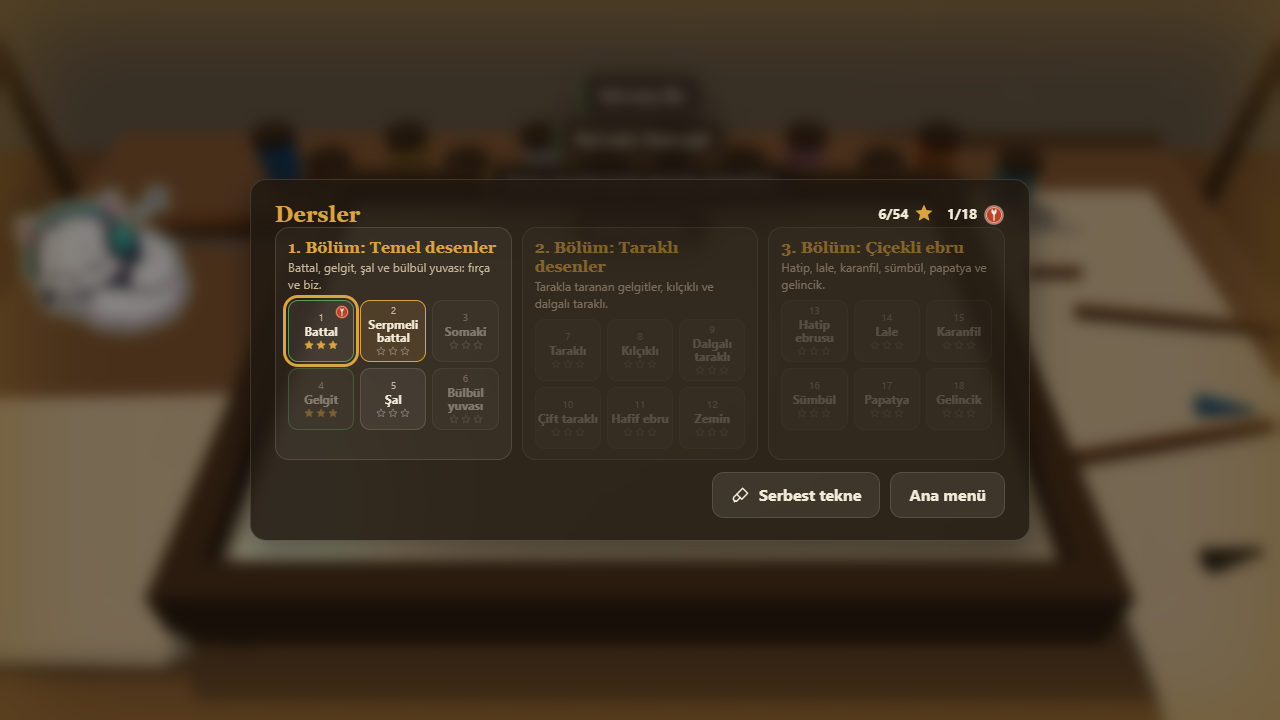
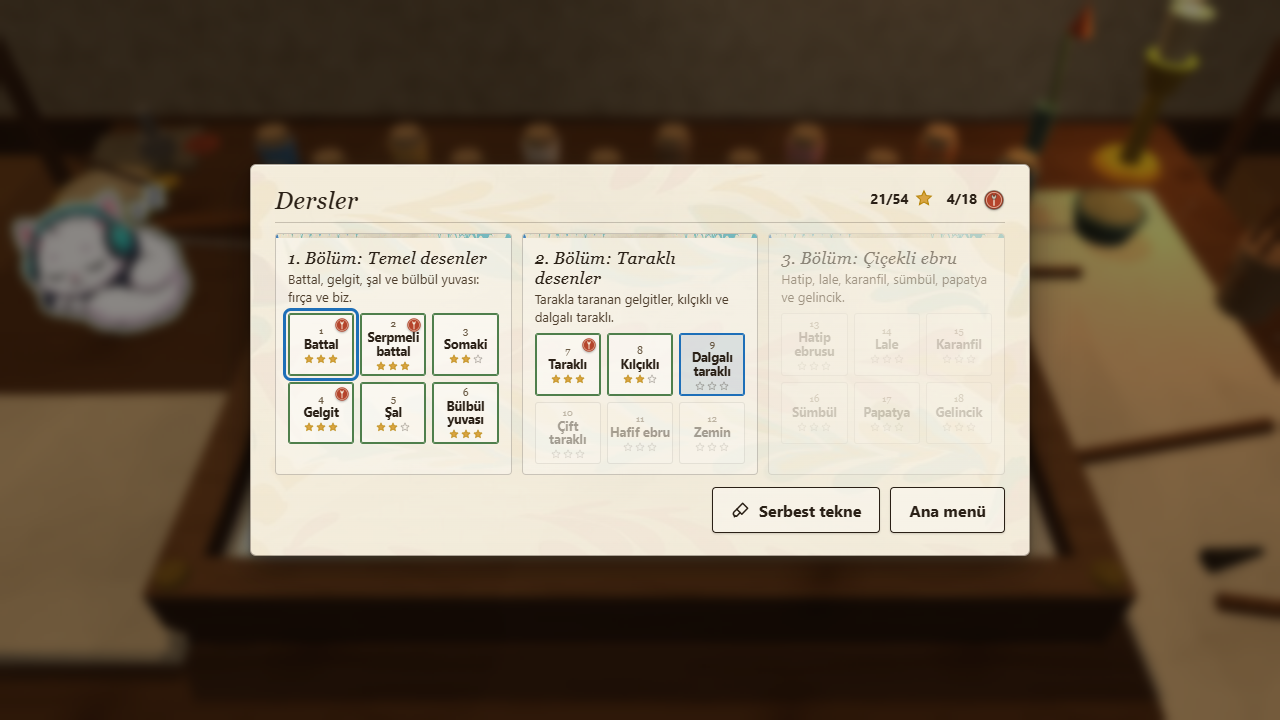
docs(redesign): new screenshots, before/after composite and the README redesign section
Claude-Session: https://claude.ai/code/session_014vMYwwQ3htV8WjCni8q7av

diff --git a/README.md b/README.md
@@ -41,7 +41,7 @@
 - **Provably solvable targets.** Every target is a recorded stroke list replayed in the same simulation; the live match %
   compares the tray with the target, and the hint replays the next stroke as a ghost on the water.
 - **Played by a bot.** `?auto` plays every lesson through the same stroke API as a player, with a small hand tremor.
-  Measured: **18/18 lessons solved, 48/54 stars, 12/18 seals**, 60 fps on an Intel UHD 620, 7-10 draw calls.
+  Measured after the 2026-11 redesign: **18/18 lessons solved, 48/54 stars, 12/18 seals**, 60 fps on an Intel UHD 620, 14-18 draw calls.
 - **Free tray, water thickness, gallery and book covers.** Paint whatever you like on thin, medium or thick water (drops
   spread wider and the awl drags a broader wake on thin water), lay the paper and keep up to 12 sheets in the gallery;
   bind any sheet into a book cover (leather spine and corners, the sheet as the board paper). Your last sheets hang to
@@ -126,11 +126,11 @@ points, fps, calls, bot log, errors, assets).
 <table>
   <tr>
     <td width="33%"><img src="docs/01-title.png" alt="Title screen"><br><sub>Title screen</sub></td>
-    <td width="33%"><img src="docs/02-gameplay.png" alt="Lesson 5 with only blue on the water and the master's critique under the tray"><br><sub>The master's critique under the tray</sub></td>
-    <td width="33%"><img src="docs/03-lesson.png" alt="A lesson starts with the master's note on a card over the tray"><br><sub>A lesson and the master's note</sub></td>
+    <td width="33%"><img src="docs/02-gameplay.png" alt="Lesson 5: red ochre drops rippling on the wet size, the brush dipping, the walnut tool tray"><br><sub>Drops rippling on the wet size</sub></td>
+    <td width="33%"><img src="docs/03-lesson.png" alt="Lesson 14 starts with the master's note on a paper card over the tray"><br><sub>A lesson and the master's note</sub></td>
   </tr>
   <tr>
-    <td><img src="docs/04-result.png" alt="Result: the finished sheet next to the target, with the critique and the kitten"><br><sub>The finished sheet next to the target</sub></td>
+    <td><img src="docs/04-result.png" alt="Result card on ebru paper: the tulip sheet next to the target, three stars, the master's seal and the kitten"><br><sub>The finished sheet, three stars and the seal</sub></td>
     <td><img src="docs/05-lessons.png" alt="Chapter map with stars and seals"><br><sub>Three chapters, 18 lessons, seals</sub></td>
     <td><img src="docs/06-phone.png" alt="Ebru on a phone"><br><sub>On a phone</sub></td>
   </tr>
@@ -186,6 +186,38 @@ Upgraded by **Claude Fable 5.1** with Claude Code from [prompts/ebru-v2.md](prom
 - The arena's Turkish Van kitten: asleep on the table edge (a sprite, one extra draw call) and cheering or thinking on
   the result card. Measured after the upgrade: bot 18/18, 48/54 stars, 12/18 seals, 58-60 fps and 7-10 draw calls on
   the UHD 620, zero JS errors with and without assets.
+
+### Redesign (2026-11)
+
+Redesigned by **Claude Fable 5.1** with Claude Code (branch `redesign`). Art direction: **ink & paper fine art**, the
+master's workshop in the morning window light. Palette: walnut, cream paper, lime plaster, ebru blue, red-ochre wax,
+brass, zinc. Nothing in the rules moved: lessons, targets, scoring, seals, saves, flags and the bot are the v2 ones.
+
+What changed:
+
+- **Room.** Canvas-generated wood grain, lime plaster and laid-paper textures on three merged static meshes with
+  world-projected UVs; a woven kilim; the window now shows a morning sky, a cypress and a far dome, and throws a soft
+  shaft of light across the table. Golden window sun, a cool room fill, a flickering oil lamp (point light and flame
+  sprite) and a little fog towards the far wall. A PMREM environment from a canvas equirect so the water and the steel
+  catch the window.
+- **Wet size.** The water is a low-roughness surface with a slowly creeping ripple normal map under the paint, so the
+  window's reflection shimmers on the kitre and the pigment reads wet rather than printed.
+- **The master's table.** Oil lamp, bowl of size with a ladle, ox-gall bowl, muller and a pile of ground ochre, a cup
+  of rose-twig brushes, a reed pen, a tulip in a vase, spare combs, a framed marbled sheet and a calligraphy panel on
+  the wall, marbled sheets drying on the line (drawn by the same simulation), a basket of scrap paper, a drawer with a
+  brass knob, turned legs, brass nails on the walnut tray rim.
+- **Tools and pots.** Rose-twig brush with bound horsehair, awl with a turned handle and brass ferrule, walnut comb with
+  a brass strip and a grip, glazed paint bowl with a spoon; glazed pigment pots with cork stoppers and paper labels.
+- **Animation.** Rings spread where every drop falls, the brush dips when it sprinkles, the paper bows while it falls
+  and bellies while it is peeled off the water, the drying sheets sway, the flame flickers.
+- **UI.** Every panel is a sheet of light (hafif) ebru paper drawn by the game's own simulation under a cream wash:
+  dark ink text, calligraphic italic serif headers with an ink flourish, ebru-blue ink buttons, red wax seals with a
+  stamp animation, a paper HUD strip with a marbled band, a walnut tool tray with paper labels and wet pigment dabs,
+  the target in a walnut frame. Phone portrait and landscape reworked: full-width tray, swatches on their own row.
+
+Measured on an Intel UHD 620 at 1280x720 (headless Chrome): 60 fps before and after; draw calls 9-10 before, 14-18
+after; triangles 2.8k before, 5.4-5.9k after; `?low` 60 fps, 14 calls; the `?auto` bot 18/18, 48/54 stars, 12/18 seals
+with assets and with `?noassets`, zero JS errors. Before/after: `docs/redesign-before-after.png`.
 
 Ebru is part of the **Claude Game Arena** series, where each game is built by a Claude model from one prompt. The
 other games: [Hisar](https://furkiozknn.github.io/kale-savunmasi/) ·
